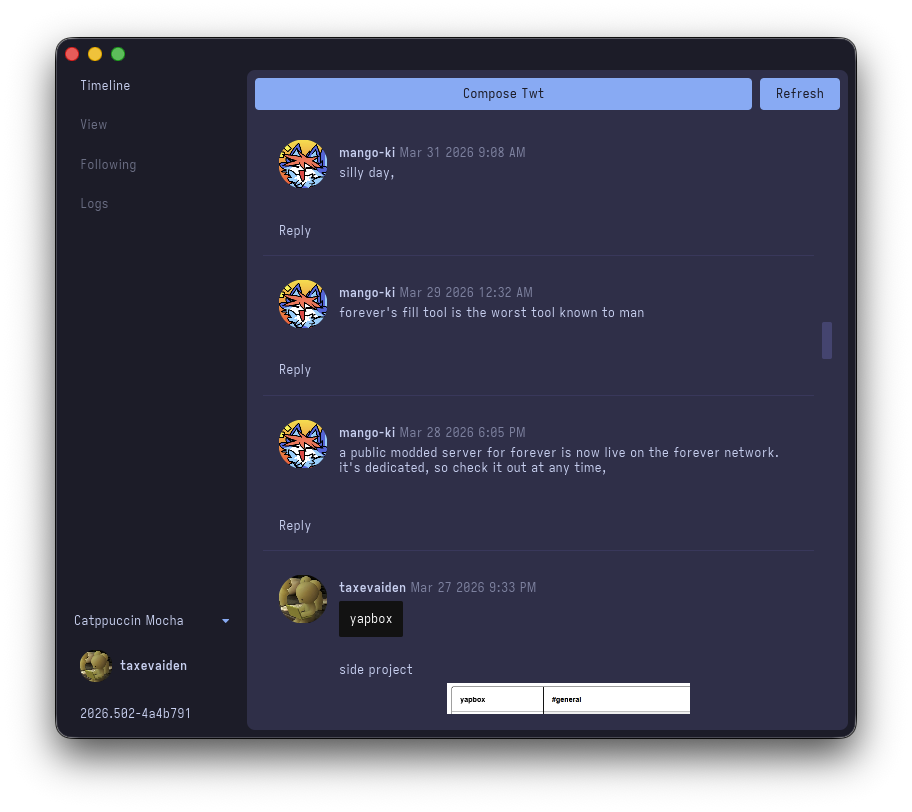
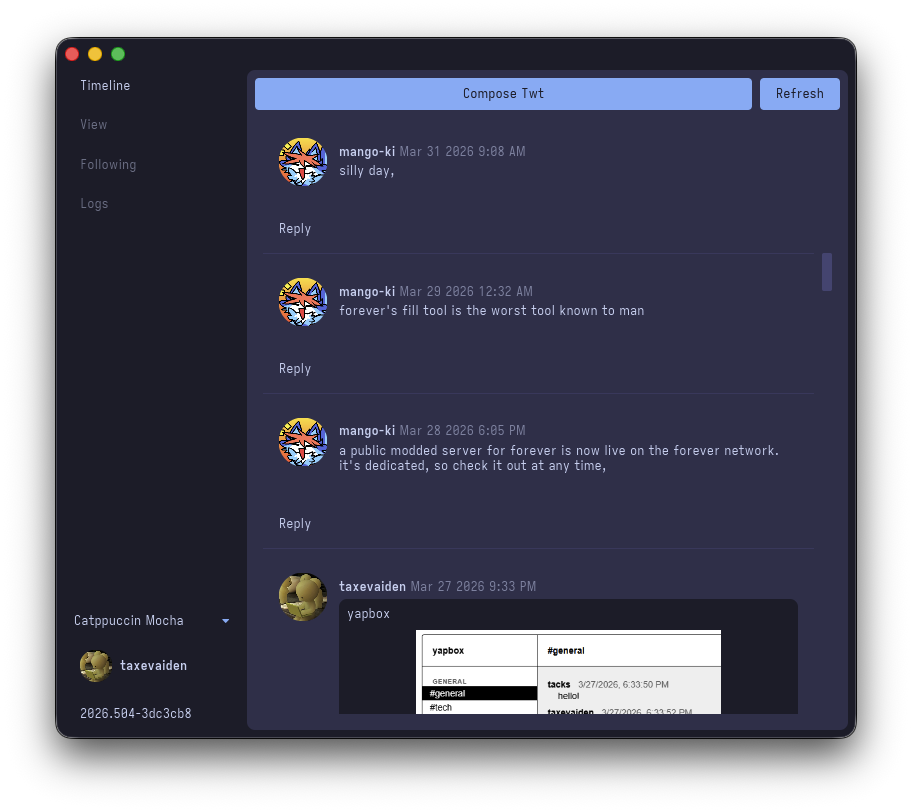
new TweetViewer, better markdown images

diff --git a/src/components/tweet.rs b/src/components/tweet.rs
@@ -1,5 +1,6 @@
 //! A tweet renderer component, responsible for displaying a single tweet line.
 
+use crate::components::tweet_viewer::TweetViewer;
 use crate::utils::download::download_binary;
 use crate::{
     components::og_embed::{self, OgEmbedComponent},
@@ -16,7 +17,7 @@ use twtxt::url::{is_media_url, is_twtxt_url};
 use bytes::Bytes;
 use chrono::Local;
 use iced::{
-    Background, Border, Color, ContentFit, Element, Length, Padding, Pixels, Task, Theme,
+    Background, Border, Color, Element, Length, Padding, Pixels, Task, Theme,
     border::Radius,
     widget::{
         Image, button, column, container,
@@ -176,7 +177,7 @@ impl TweetComponent {
 
         let code_bg = Color::from_rgba(0.0, 0.0, 0.0, 0.55);
 
-        let content = markdown::view(
+        let content = markdown::view_with(
             &self.md_items,
             markdown::Settings::with_text_size(
                 Pixels(12.0),
@@ -193,6 +194,7 @@ impl TweetComponent {
                     code_block_font: crate::app::MONOSPACE_FONT,
                 },
             ),
+            &TweetViewer::new(&self.image_urls, &self.image_handles),
         )
         .map(Message::LinkClicked);
 
@@ -238,31 +240,6 @@ impl TweetComponent {
         ]
         .on_link_click(Message::LinkClicked);
 
-        const MAX_WIDTH: f32 = 500.0;
-        const MAX_HEIGHT: f32 = 400.0;
-
-        let mut images_col = column![].spacing(4);
-        for entry in self.image_handles.iter().flatten() {
-            let (handle, img_w, img_h) = entry;
-            let image = if *img_w > 0 && *img_h > 0 {
-                let aspect = *img_h as f32 / *img_w as f32;
-                let render_h = (MAX_WIDTH * aspect).min(MAX_HEIGHT);
-                Image::new(handle)
-                    .width(Length::Fixed(MAX_WIDTH))
-                    .height(Length::Fixed(render_h))
-                    .content_fit(ContentFit::Contain)
-                    .filter_method(iced::widget::image::FilterMethod::Linear)
-            } else {
-                // fallback!
-                Image::new(handle)
-                    .width(Length::Fill)
-                    .height(Length::Shrink)
-                    .content_fit(ContentFit::Contain)
-                    .filter_method(iced::widget::image::FilterMethod::Linear)
-            };
-            images_col = images_col.push(image);
-        }
-
         let mut og_embeds_col = column![].spacing(6);
         for (i, embed) in self.og_embeds.iter().enumerate() {
             if let Some(embed) = embed {
@@ -285,7 +262,7 @@ impl TweetComponent {
             button(
                 row![
                     avatar_img,
-                    column![header, container(content), images_col, og_embeds_col]
+                    column![header, container(content), og_embeds_col]
                         .padding([6.0, 0.0])
                         .spacing(4)
                 ]

diff --git a/src/components/tweet_viewer.rs b/src/components/tweet_viewer.rs
@@ -1,0 +1,81 @@
+use iced::{
+    Background, Border, Color, ContentFit, Element, Font, Length, Theme,
+    border::Radius,
+    widget::{Image, column, container, image::Handle, markdown, rich_text, space},
+};
+
+pub struct TweetViewer<'b> {
+    image_urls: &'b [String],
+    image_handles: &'b [Option<(Handle, u32, u32)>],
+}
+
+impl<'b> TweetViewer<'b> {
+    pub fn new(image_urls: &'b [String], image_handles: &'b [Option<(Handle, u32, u32)>]) -> Self {
+        Self {
+            image_urls,
+            image_handles,
+        }
+    }
+}
+
+impl<'a, 'b, Renderer> markdown::Viewer<'a, String, iced::Theme, Renderer> for TweetViewer<'b>
+where
+    'b: 'a,
+    Renderer: iced_core::text::Renderer<Font = Font> + 'a,
+    Renderer: iced_core::image::Renderer<Handle = Handle>,
+{
+    fn on_link_click(url: String) -> String {
+        url
+    }
+
+    fn image(
+        &self,
+        settings: markdown::Settings,
+        url: &'a String,
+        _title: &'a str,
+        alt: &markdown::Text,
+    ) -> Element<'a, String, Theme, Renderer> {
+        const MAX_WIDTH: f32 = 500.0;
+        const MAX_HEIGHT: f32 = 500.0;
+
+        let maybe_handle = self
+            .image_urls
+            .iter()
+            .position(|u| u == url)
+            .and_then(|i| self.image_handles.get(i))
+            .and_then(|h| h.as_ref());
+
+        let image: Element<'a, String, iced::Theme, Renderer> = match maybe_handle {
+            Some((handle, img_w, img_h)) if *img_w > 0 && *img_h > 0 => {
+                let aspect = *img_h as f32 / *img_w as f32;
+                let render_h = (MAX_WIDTH * aspect).min(MAX_HEIGHT);
+                Image::<Handle>::new(handle.clone())
+                    .width(Length::Fixed(MAX_WIDTH))
+                    .height(Length::Fixed(render_h))
+                    .content_fit(ContentFit::Contain)
+                    .filter_method(iced::widget::image::FilterMethod::Linear)
+                    .into()
+            }
+            Some((handle, _, _)) => Image::<Handle>::new(handle.clone())
+                .width(Length::Fill)
+                .height(Length::Shrink)
+                .content_fit(ContentFit::Contain)
+                .filter_method(iced::widget::image::FilterMethod::Linear)
+                .into(),
+            None => space::horizontal().width(0).into(),
+        };
+
+        container(column![rich_text(alt.spans(settings.style)), image].spacing(8))
+            .padding(8)
+            .style(|theme: &iced::Theme| container::Style {
+                background: Some(Background::from(theme.palette().background)),
+                border: Border {
+                    width: 0.0,
+                    color: Color::TRANSPARENT,
+                    radius: Radius::new(8),
+                },
+                ..Default::default()
+            })
+            .into()
+    }
+}

diff --git a/src/components/mod.rs b/src/components/mod.rs
@@ -1,4 +1,5 @@
 pub mod og_embed;
 pub mod threaded_feed;
 pub mod tweet;
+pub mod tweet_viewer;
 pub mod user_card;
